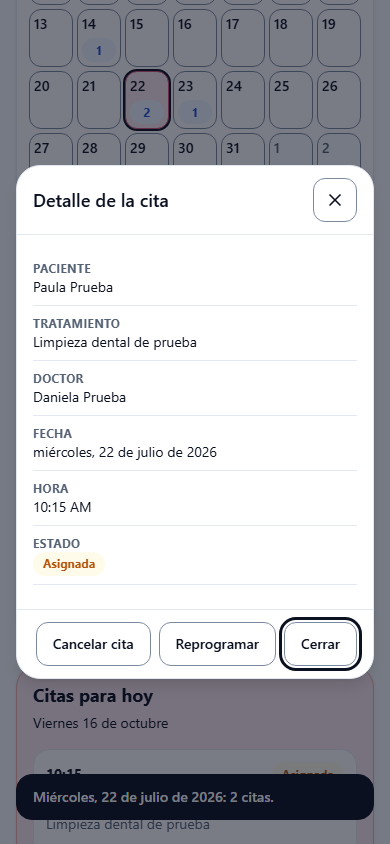
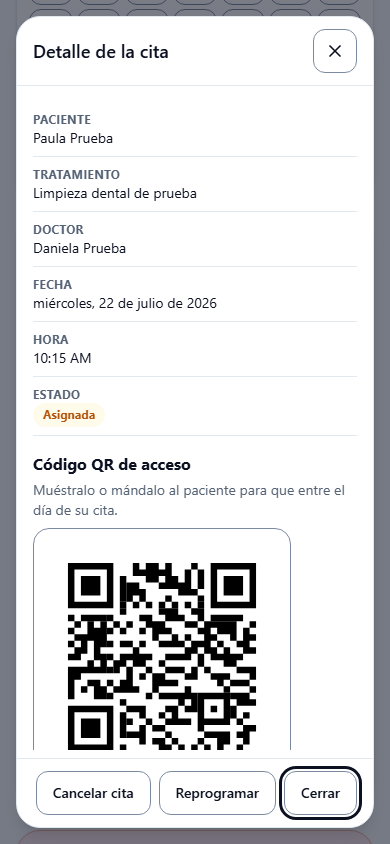
docs(024): T051 document the QR code block of the appointment detail
Cubre: docs/specs/024-qr-de-cita-para-el-acceso/tasks.md (T051)

diff --git a/docs/design/system.html b/docs/design/system.html
@@ -528,8 +528,8 @@
           <div class="v-pairing"><a class="v-img v-img-1440" href="capturas/agenda-dia-1440.png"><img src="capturas/agenda-dia-1440.png" alt="Agenda, citas del día a 1440 px" loading="lazy"><span>1440 px</span></a></div></figure>
         <figure class="v-shot"><figcaption><strong>Agenda, detalle de cita</strong> · Administrador<br><span>components/calendar/view-appointment-modal.blade.php</span></figcaption>
           <div class="v-pairing"><a class="v-img v-img-390" href="capturas/agenda-cita-detalle-390.png"><img src="capturas/agenda-cita-detalle-390.png" alt="Agenda, detalle de cita a 390 px" loading="lazy"><span>390 px</span></a><a class="v-img v-img-1440" href="capturas/agenda-cita-detalle-1440.png"><img src="capturas/agenda-cita-detalle-1440.png" alt="Agenda, detalle de cita a 1440 px" loading="lazy"><span>1440 px</span></a></div></figure>
-        <figure class="v-shot"><figcaption><strong>Agenda, detalle de cita asignada (con "Reprogramar" y "Cancelar cita")</strong> · Administrador<br><span>components/calendar/view-appointment-modal.blade.php</span></figcaption>
-          <div class="v-pairing"><a class="v-img v-img-390" href="capturas/agenda-cita-detalle-pendiente-390.png"><img src="capturas/agenda-cita-detalle-pendiente-390.png" alt="Agenda, detalle de cita asignada (con &quot;Reprogramar&quot; y &quot;Cancelar cita&quot;) a 390 px" loading="lazy"><span>390 px</span></a><a class="v-img v-img-1440" href="capturas/agenda-cita-detalle-pendiente-1440.png"><img src="capturas/agenda-cita-detalle-pendiente-1440.png" alt="Agenda, detalle de cita asignada (con &quot;Reprogramar&quot; y &quot;Cancelar cita&quot;) a 1440 px" loading="lazy"><span>1440 px</span></a></div></figure>
+        <figure class="v-shot"><figcaption><strong>Agenda, detalle de cita asignada (con "Reprogramar", "Cancelar cita" y su código QR)</strong> · Administrador<br><span>components/calendar/view-appointment-modal.blade.php</span></figcaption>
+          <div class="v-pairing"><a class="v-img v-img-390" href="capturas/agenda-cita-detalle-pendiente-390.png"><img src="capturas/agenda-cita-detalle-pendiente-390.png" alt="Agenda, detalle de cita asignada (con &quot;Reprogramar&quot;, &quot;Cancelar cita&quot; y su código QR) a 390 px" loading="lazy"><span>390 px</span></a><a class="v-img v-img-1440" href="capturas/agenda-cita-detalle-pendiente-1440.png"><img src="capturas/agenda-cita-detalle-pendiente-1440.png" alt="Agenda, detalle de cita asignada (con &quot;Reprogramar&quot;, &quot;Cancelar cita&quot; y su código QR) a 1440 px" loading="lazy"><span>1440 px</span></a></div></figure>
         <figure class="v-shot"><figcaption><strong>Agenda, reprogramar cita</strong> · Administrador<br><span>components/calendar/edit-appointment-modal.blade.php</span></figcaption>
           <div class="v-pairing"><a class="v-img v-img-390" href="capturas/agenda-cita-reprogramar-390.png"><img src="capturas/agenda-cita-reprogramar-390.png" alt="Agenda, reprogramar cita a 390 px" loading="lazy"><span>390 px</span></a><a class="v-img v-img-1440" href="capturas/agenda-cita-reprogramar-1440.png"><img src="capturas/agenda-cita-reprogramar-1440.png" alt="Agenda, reprogramar cita a 1440 px" loading="lazy"><span>1440 px</span></a></div></figure>
         <figure class="v-shot"><figcaption><strong>Agenda, confirmar cancelación</strong> · Administrador<br><span>components/calendar/cancel-appointment-confirm.blade.php</span></figcaption>

diff --git a/docs/specs/024-qr-de-cita-para-el-acceso/tasks.md b/docs/specs/024-qr-de-cita-para-el-acceso/tasks.md
@@ -86,12 +86,12 @@ Las tareas no cambian el Constitution Check de [plan.md](plan.md):
 
 ## Cierre
 - [ ] T050 Comprobar la definición de terminado: Pint (`--dirty --format agent`); Pest completa en serie sin ninguna marca `024:` de `skip` y sin fallos nuevos frente a T001; `npm run build`; `ui-audit` completo en local; `composer audit` y `npm audit --audit-level=high`; `grep -rn "getMessage()"` sin resultados en el controlador nuevo; `aidd.py validate` sin errores — hecho cuando: todo pasa y el resultado queda anotado — depende: T020–T023
-- [ ] T051 [P] Documentar el bloque del QR dentro del detalle de la cita — `docs/design/system.md`, `docs/design/system.html` — hecho cuando: el componente aparece con su uso, tamaño mínimo y textos — depende: T023
-- [ ] T052 [P] Añadir `GET /api/v1/appointments/{id}/qr` (staff) a "Superficie de ataque" — `docs/security.md` — hecho cuando: la fila está con su control — depende: T022
+- [x] T051 [P] Documentar el bloque del QR dentro del detalle de la cita — `docs/design/system.md`, `docs/design/system.html` — hecho cuando: el componente aparece con su uso, tamaño mínimo y textos — depende: T023
+- [x] T052 [P] Añadir `GET /api/v1/appointments/{id}/qr` (staff) a "Superficie de ataque" — `docs/security.md` — hecho cuando: la fila está con su control — depende: T022
 
 ## Integración y documentación
-- [ ] T090 Actualizar `docs/architecture.md` si cambió la estructura: puerto de QR en `Aplication/Support` y su adaptador `Infrastructure/Qr` (`chillerlan/php-qrcode`, ADR 0007); el QR que Core genera y el microservicio de asistencias lee (023)
-- [ ] T091 Actualizar `docs/deployment.md` y `docs/observability.md` si cambiaron variables, entornos, pasos de deploy, logs, eventos de auditoría o métricas: en `observability.md`, los puntos de emisión de la 024 para el objetivo 5 (obtención del QR en `GetAppointmentQrUseCase`; accesos denegados). Sin cambios en `deployment.md` (sin variables ni pasos nuevos; `composer install` ya va en la imagen)
+- [x] T090 Actualizar `docs/architecture.md` si cambió la estructura: puerto de QR en `Aplication/Support` y su adaptador `Infrastructure/Qr` (`chillerlan/php-qrcode`, ADR 0007); el QR que Core genera y el microservicio de asistencias lee (023)
+- [x] T091 Actualizar `docs/deployment.md` y `docs/observability.md` si cambiaron variables, entornos, pasos de deploy, logs, eventos de auditoría o métricas: en `observability.md`, los puntos de emisión de la 024 para el objetivo 5 (obtención del QR en `GetAppointmentQrUseCase`; accesos denegados). Sin cambios en `deployment.md` (sin variables ni pasos nuevos; `composer install` ya va en la imagen)
 - [ ] T092 Marcar spec como `implemented`
 
 ## Despliegue (lo ejecuta `/release`)

diff --git a/docs/design/system.md b/docs/design/system.md
@@ -262,6 +262,17 @@ negrita, la fecha y la hora, advertencia en `danger` ("Esta acción no se puede 
 "No, mantenerla" (`secondary`, recibe el foco) / "Sí, cancelar la cita" (`danger`). No reutiliza
 `x-ui.confirm-delete-modal` porque ese fija sus textos.
 
+### Código QR de la cita · dentro de `calendar/view-appointment-modal`
+Bloque del detalle de la cita (spec 024), solo en citas asignadas o reprogramadas, después de sus
+datos. Título "Código QR de acceso" (`text-base font-bold`), una línea en `text-muted` y el QR como
+`<img>` de **240 × 240 px** (`size-60`), sobre `bg-surface` con `p-2`, `border-field` y
+`rounded-box`: el marco reserva el espacio, así que el detalle no salta al cargar. Debajo,
+"Descargar QR" (`x-ui.button` `secondary`, deshabilitado hasta que la imagen carga), que descarga
+`cita-AAAA-MM-DD-HHMM.png` sin datos del paciente. Texto alternativo: "Código QR de la cita del
+<fecha>". Si la imagen no carga, el QR se oculta y aparece en su lugar un aviso persistente
+(`danger`, `role="alert"`): "No pudimos cargar el código QR. Cierra el detalle y vuelve a abrirlo."
+Sin valores visuales nuevos.
+
 ### Estados de pantalla
 Vacío: texto centrado y completo, sin recortes. Carga: `animate-spin` en el botón que envía. Error:
 mensaje en la región de estado y, si es de un campo, bajo el campo.
